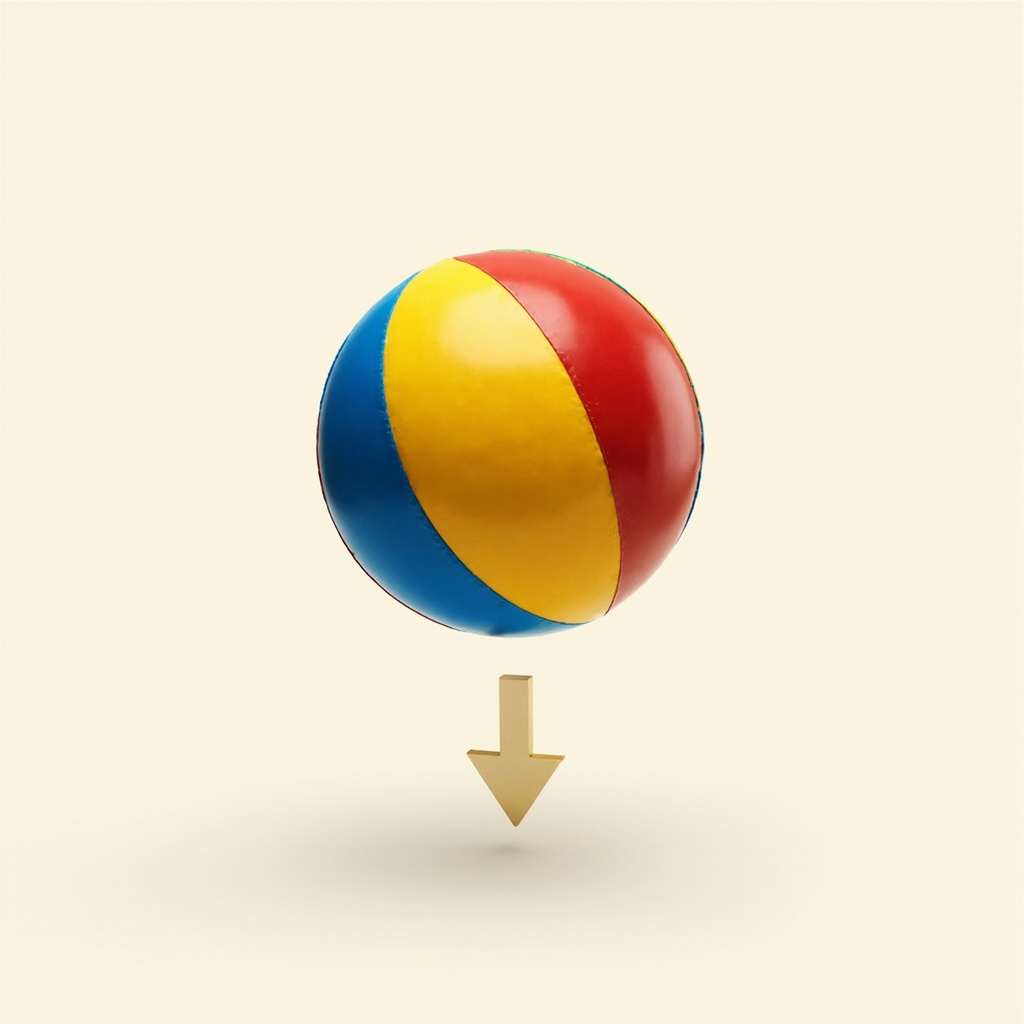
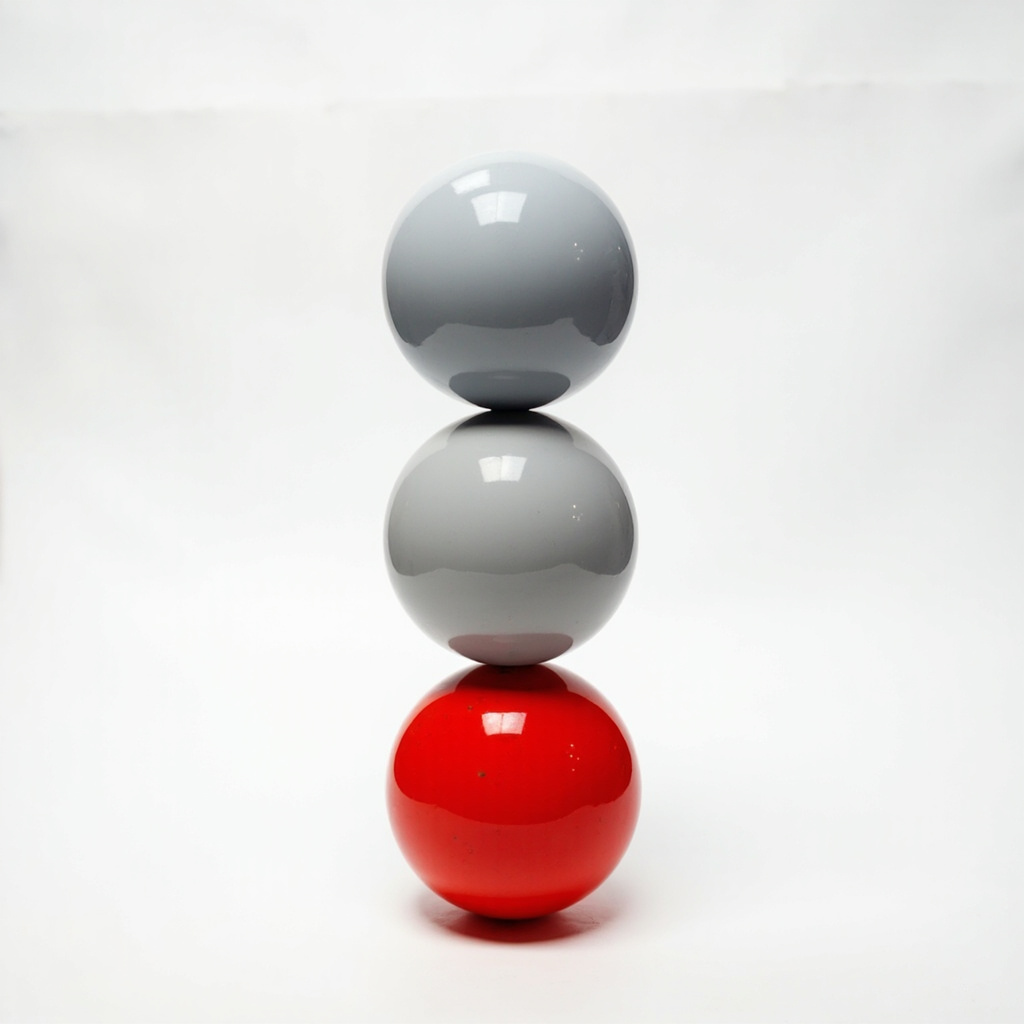
字卡上/中/下改用比較式：三個波直向排列，目標位置上色、其餘灰化（AI直接生成），同大/小一致

diff --git a/games/flashcard-k1/gen_cards.py b/games/flashcard-k1/gen_cards.py
@@ -55,9 +55,9 @@ CARDS = [
     ("28","人","an East Asian Chinese young child standing, black hair, dark eyes, warm tan skin, front view, realistic"),
     ("29","大","two balls side by side on a plain white background: one LARGE bright red glossy ball and one much smaller grey ball, the big red ball clearly much bigger, soft natural shadows"),
     ("30","小","two balls side by side on a plain white background: one LARGE grey ball and one much smaller bright red glossy ball, the small red ball clearly much smaller, soft natural shadows"),
-    ("31","上","a bird flying up high with an upward arrow"),
-    ("32","下","a ball falling down with a downward arrow"),
-    ("33","中","a target bullseye with an object in the centre"),
+    ("31","上","three identical same-size balls stacked in a vertical column on a plain white background, the TOP ball bright red, the middle and bottom balls plain grey, soft natural shadows"),
+    ("32","下","three identical same-size balls stacked in a vertical column on a plain white background, the BOTTOM ball bright red, the top and middle balls plain grey, soft natural shadows"),
+    ("33","中","three identical same-size balls stacked in a vertical column on a plain white background, the MIDDLE ball bright red, the top and bottom balls plain grey, soft natural shadows"),
     ("34","爸","an East Asian Chinese adult man, a father about 35 years old, black hair, warm friendly smile, head and shoulders portrait, front view, realistic"),
     ("35","媽","an East Asian Chinese adult woman, a mother about 35 years old, black hair, gentle warm smile, clearly a grown-up woman not a child, head and shoulders portrait, front view, realistic"),
     ("36","哥","an East Asian Chinese older brother, a boy about 8 years old, black hair, warm tan skin, friendly, head and shoulders portrait, front view, realistic"),
